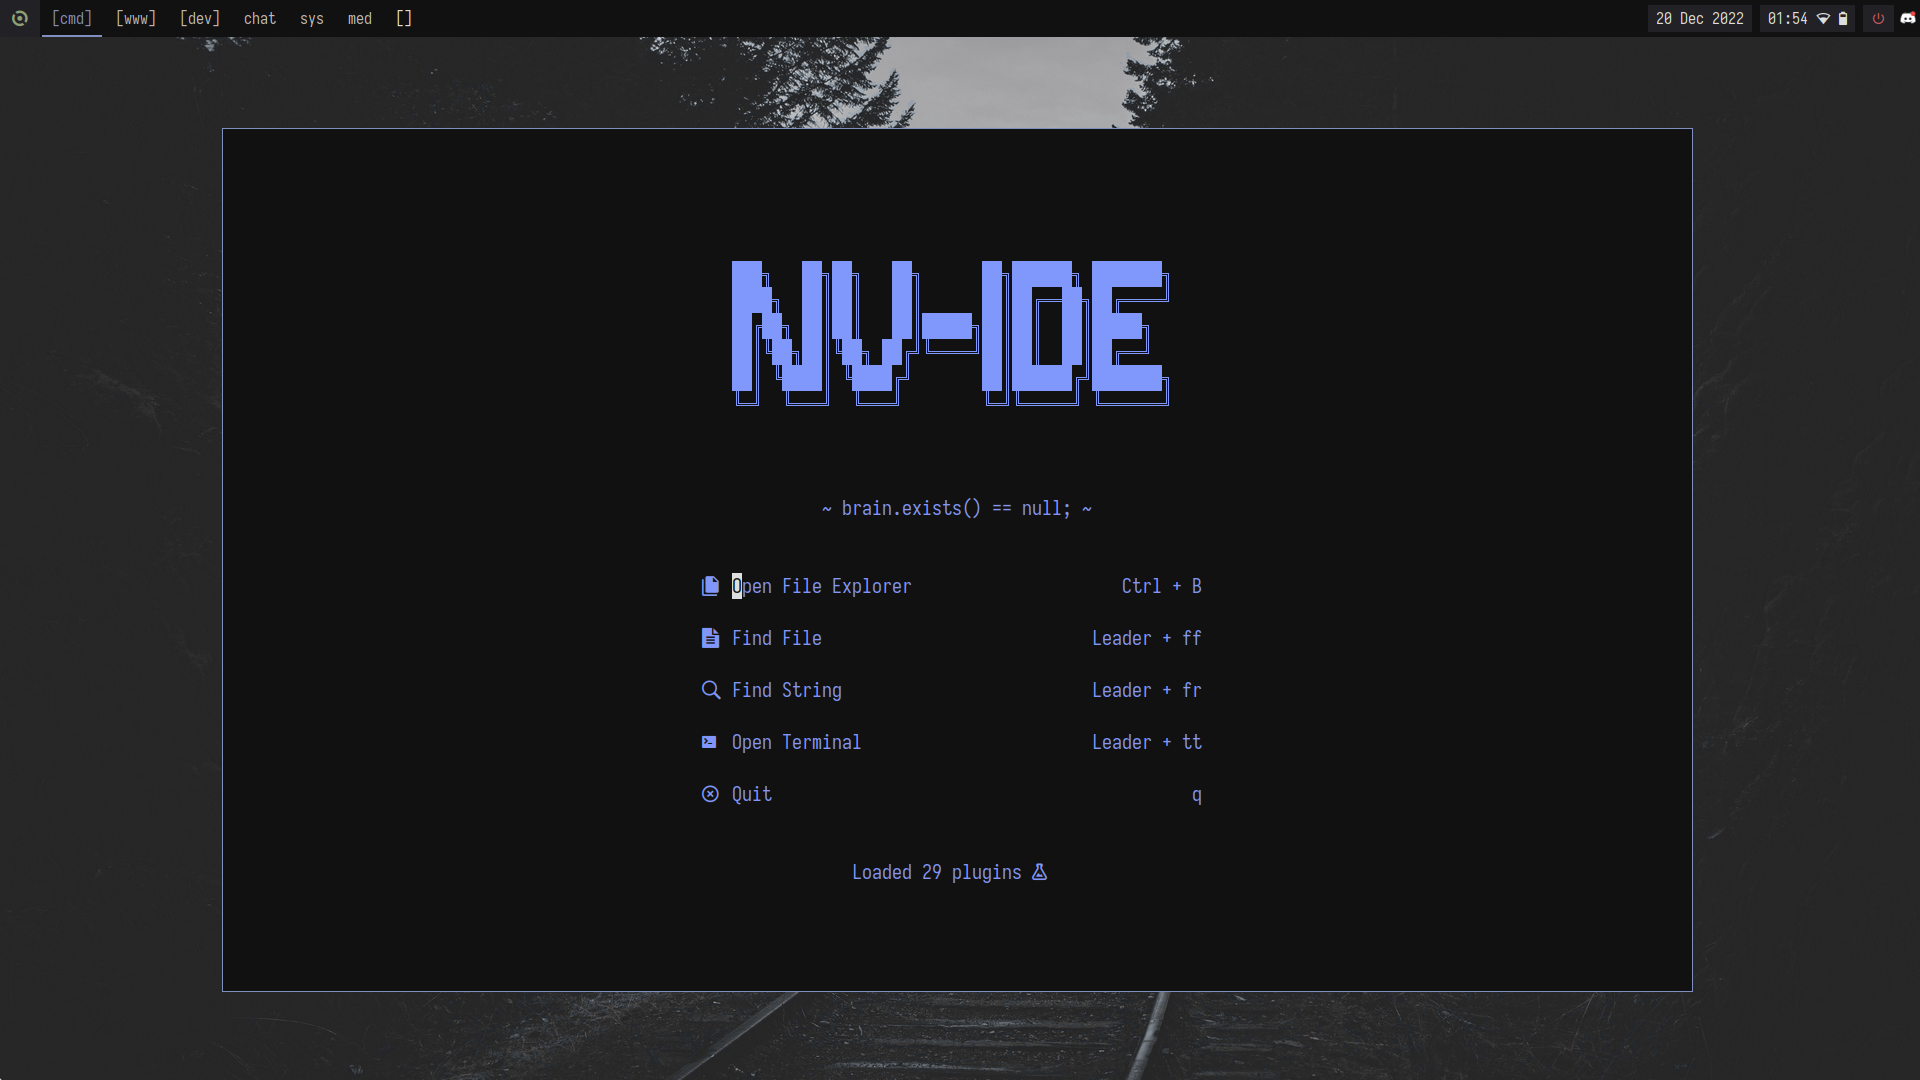
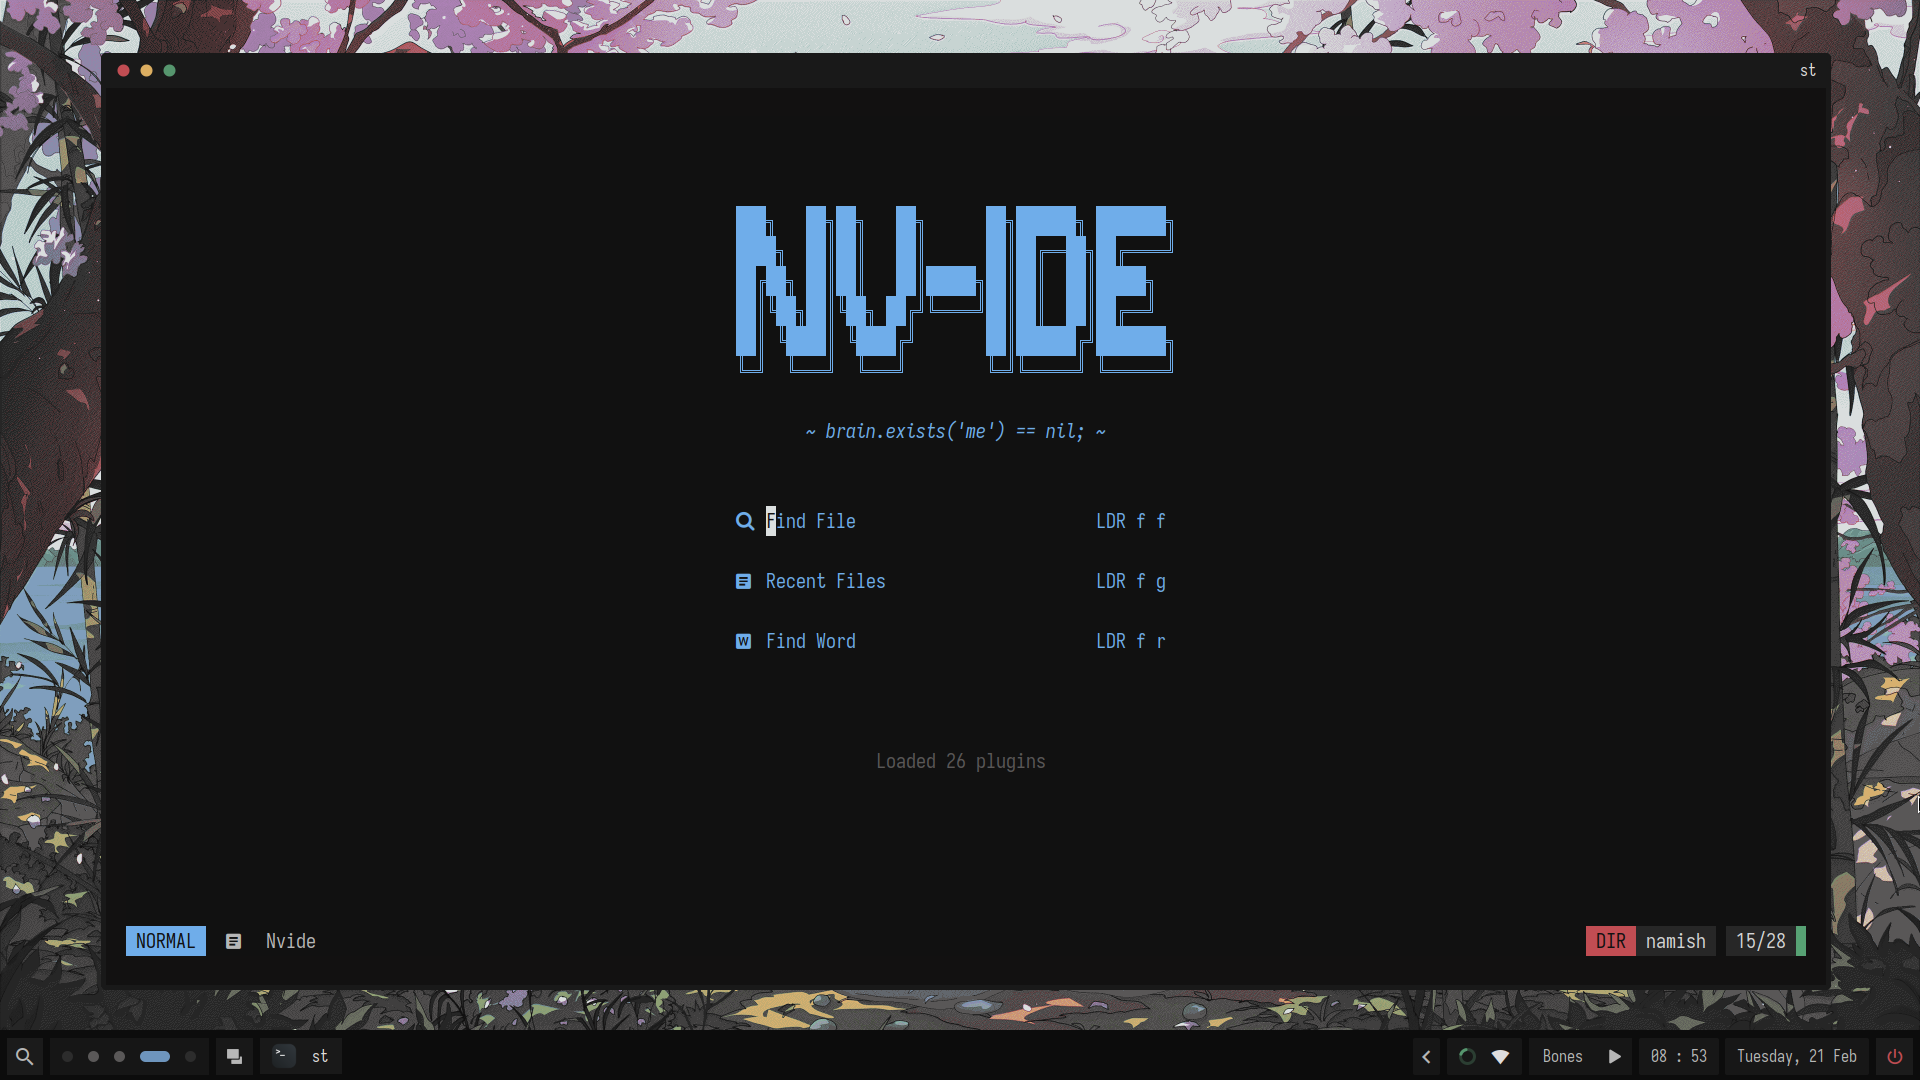
changes

diff --git a/.github/README.md b/.github/README.md
@@ -15,7 +15,7 @@
 ![Screenshot1](https://raw.githubusercontent.com/dark-Jedi2108/nvide/main/.github/screenshots/h1.png)
 
 
-A neovim configuration that looks good and is fast (startuptime < 0.5s).
+A neovim configuration that looks good and is fast (startuptime < 0.05s).
 
 <div align="center">
 
@@ -23,23 +23,21 @@ A neovim configuration that looks good and is fast (startuptime < 0.5s).
 Tested on a pretty low end laptop
 On Power                              : 0.015s - 0.025s
 On Battery                            : 0.025s - 0.045s
-On Power (with firefox and discord)   : 0.020s - 0.035s
-On Battery (with firefox and discord) : 0.025s - 0.045s
 ```
 
 </div>
 
-Has something like 29 plugins and but is still fast becuase of holy lazy loading.
+Has something like 26 plugins and but is still fast becuase of holy lazy loading.
 
 
 ## Plugins And Features
 + Lazy loading done most of the time to get blazingly moderate startup times.
-+ A Minimal and Stylish bufferline with [bufferline.nvim](https://github.com/akinsho/bufferline.nvim)
-+ Cool Looking Custom [Statusline](https://github.com/dark-Jedi2108/nvide/tree/main/lua/staline)
++ A Minimal Custom [Bufferline](https://github.com/chadcat5207/nvide/tree/main/lua/ui/buff)
++ Cool Looking Custom [Statusline](https://github.com/chadcat5207/nvide/tree/main/lua/ui/staline)
 + Parsing with [treesitter](https://github.com/nvim-treesitter/nvim-treesitter)
 + A File Tree with [nvim-tree](https://github.com/kyazdani42/nvim-tree.lua)
 + Fast file finding and more with [telescope](https://github.com/nvim-telescope/telescope.nvim/)
-+ Dope dashboard with [alpha-nvim](https://github.com/goolord/alpha-nvim/)
++ Dope [dashboard](https://github.com/chadcat5207/nvide/tree/main/lua/ui/dash) inspired by nvchad
 + Snippets with [LuaSnip](https://github.com/L3MON4D3/LuaSnip)
 + Toggle-able Terminals with [toggleterm](https://github.com/akinsho/toggleterm.nvim)
 + Color Hightlighting with [nvim-colorizer](https://github.com/norcalli/nvim-colorizer.lua)
@@ -116,17 +114,17 @@ local DEFAULT_STATUS_STYLE = 'minimal' -- minimal | fancy | monochrome
 
 ## Screenshots
 
-![Screenshot1](https://raw.githubusercontent.com/dark-Jedi2108/nvide/main/.github/screenshots/n1.png)
+![Screenshot1](https://raw.githubusercontent.com/dark-Jedi2108/nvide/main/.github/screenshots/1.png)
 
-![Screenshot1](https://raw.githubusercontent.com/dark-Jedi2108/nvide/main/.github/screenshots/n2.png)
+![Screenshot1](https://raw.githubusercontent.com/dark-Jedi2108/nvide/main/.github/screenshots/2.png)
 
-![Screenshot1](https://raw.githubusercontent.com/dark-Jedi2108/nvide/main/.github/screenshots/n3.png)
+![Screenshot1](https://raw.githubusercontent.com/dark-Jedi2108/nvide/main/.github/screenshots/3.png)
 
-![Screenshot1](https://raw.githubusercontent.com/dark-Jedi2108/nvide/main/.github/screenshots/n4.png)
+![Screenshot1](https://raw.githubusercontent.com/dark-Jedi2108/nvide/main/.github/screenshots/4.png)
 
 ## FAQ
 
-+ __Will you switch to lazy.nvim?__
++ __Will you switch to lazy.nvim?__ <br>
 No I wont
 
 ## Todo
@@ -135,9 +133,10 @@ No I wont
 - [x]  ~~custom statusline~~ (i am proud)
 - [x]  ~~learn markdown bcoz i suck at it~~
 - [x]  ~~fix autoformatting on save~~
-- [ ] add some more themes
-- [ ] fix custom dashboard
-- [ ] make custom tabline
+- [x] make custom tabline
+- [x] fix custom dashboard
+- [ ] add some more themes (currently 3)
+- [ ] fix custom tabline
 
 ## Special Thanks 
 This config wouldn't have been possible without these chads!
